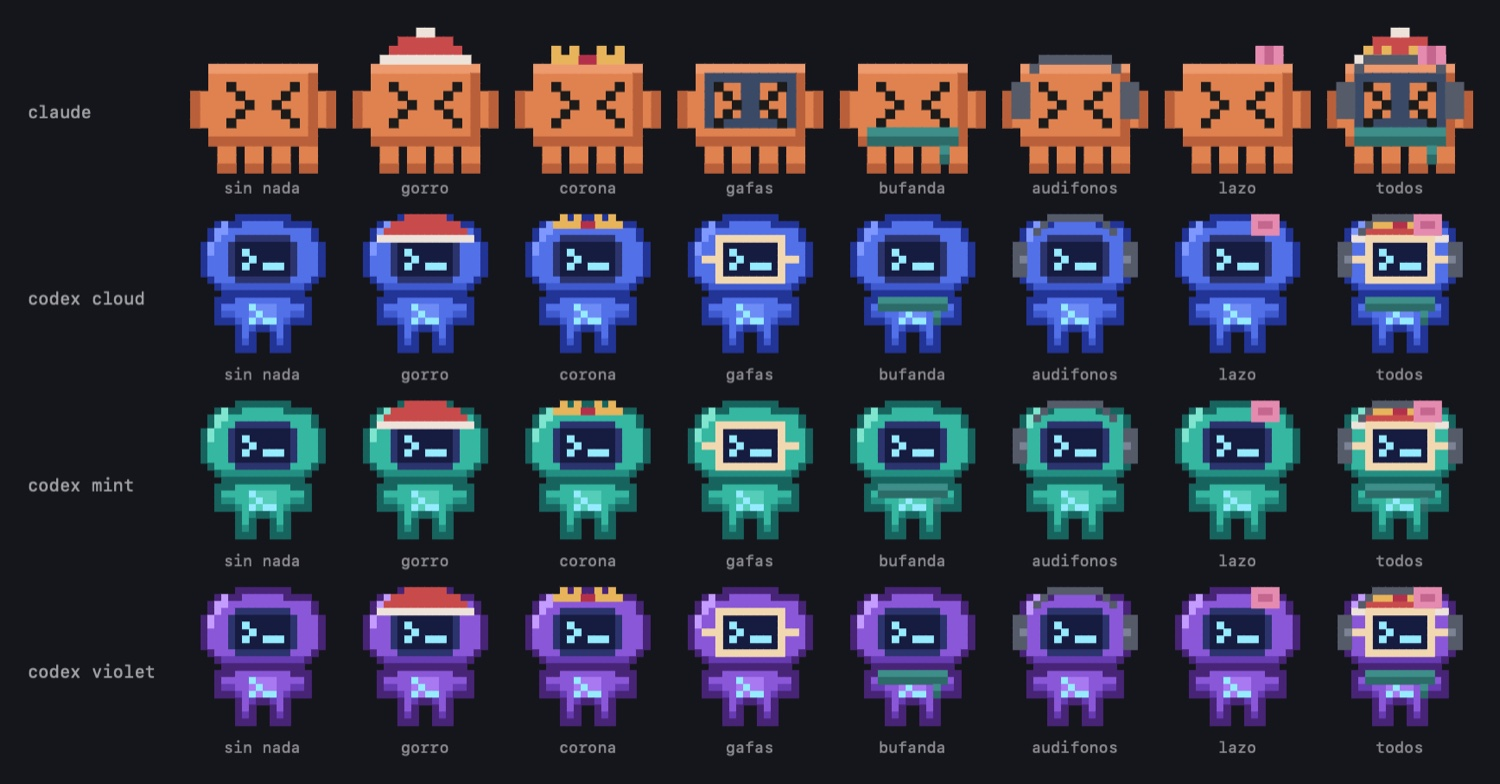
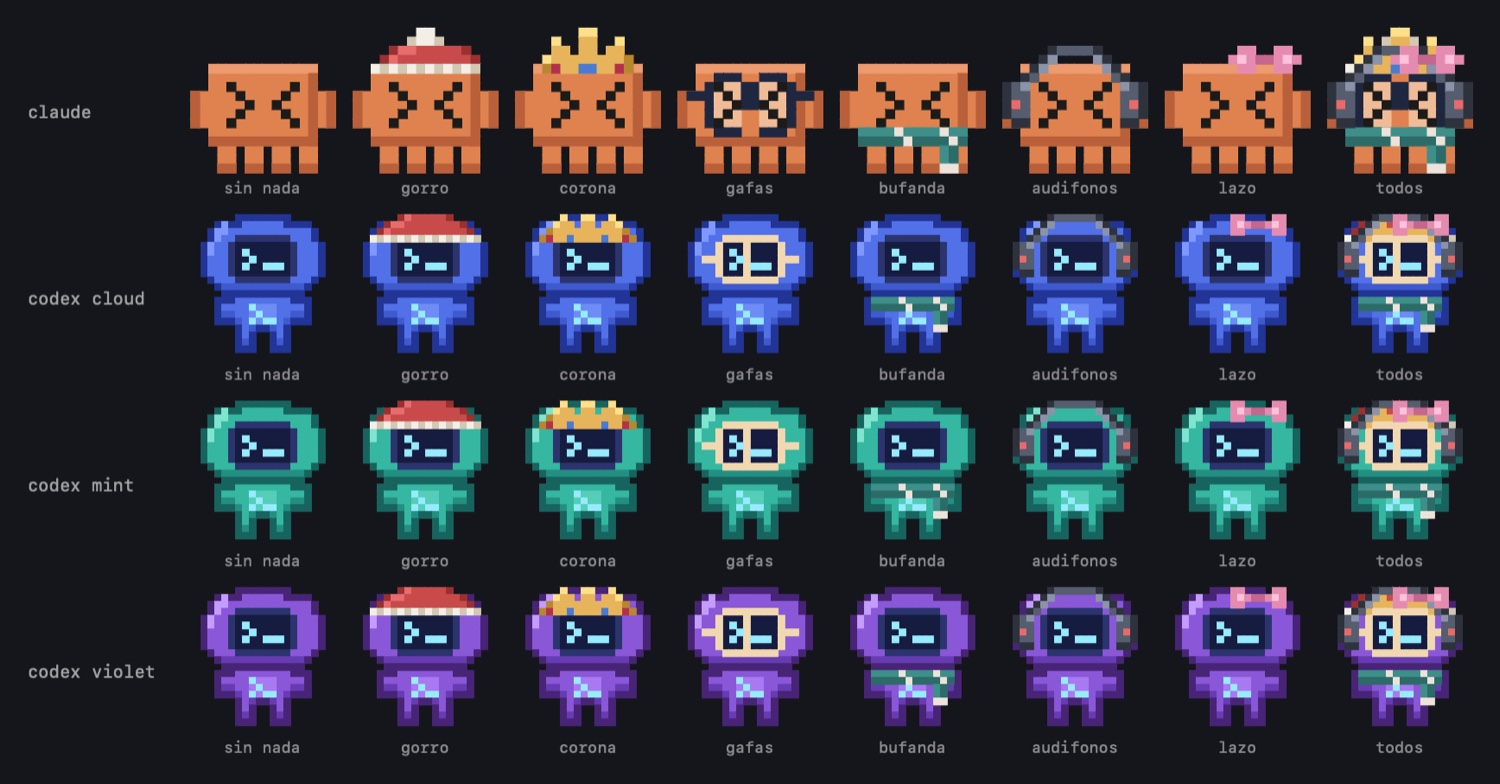
docs: atuendos redibujados y version 2.4.2

diff --git a/CHANGELOG.md b/CHANGELOG.md
@@ -2,6 +2,16 @@
 
 Formato basado en [Keep a Changelog](https://keepachangelog.com/es-ES/1.1.0/). Las versiones anteriores a la 2.0 se etiquetaron a posteriori sobre los commits donde cada hito quedó completo.
 
+## [2.4.2] - 2026-10-27
+
+### cambiado
+- los seis atuendos se redibujan con sombreado, tanto para Claude como para las tres variantes de Codex: gorro de punto con pompón y vuelta, corona con joyas, gafas de verdad (marco fino, cristal con tinte, puente y patillas hasta las orejas; en Codex, montura clara alrededor del visor con puente y patillas), bufanda de rayas con cabo y flecos, audífonos con banda, copas y piloto, y lazo con dos lazadas y nudo.
+- los atuendos ahora se definen como pixel-art en ASCII, más fácil de afinar y de revisar.
+- `--dump-grids` imprime las rejillas de las mascotas para dibujar encima con exactitud.
+
+### añadido
+- pruebas del ancho de cada fila de los dibujos, de que cada letra tenga color y de que ninguna montura pise los ojos.
+
 ## [2.4.1] - 2026-10-27
 
 ### corregido
@@ -121,6 +131,7 @@ Formato basado en [Keep a Changelog](https://keepachangelog.com/es-ES/1.1.0/). L
 ### añadido
 - primera versión: una mascota pixel-art en la barra de menú que refleja el estado de Claude Code.
 
+[2.4.2]: https://github.com/kisnner26/claude-pet/compare/v2.4.1...v2.4.2
 [2.4.1]: https://github.com/kisnner26/claude-pet/compare/v2.4.0...v2.4.1
 [2.4.0]: https://github.com/kisnner26/claude-pet/compare/v2.3.0...v2.4.0
 [2.3.0]: https://github.com/kisnner26/claude-pet/compare/v2.2.0...v2.3.0
